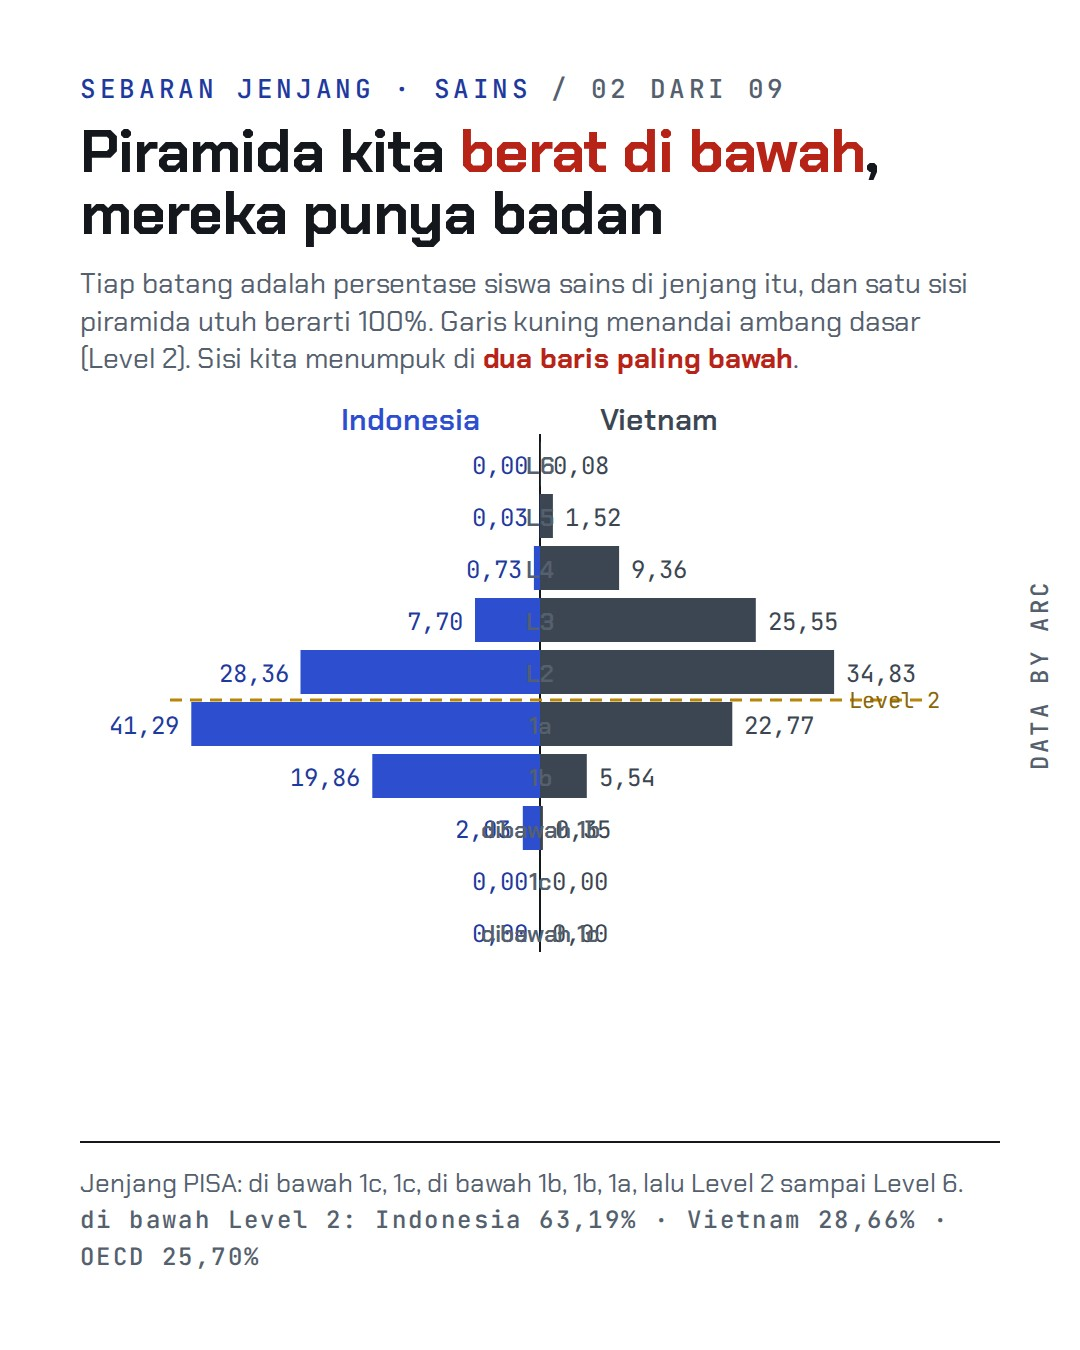
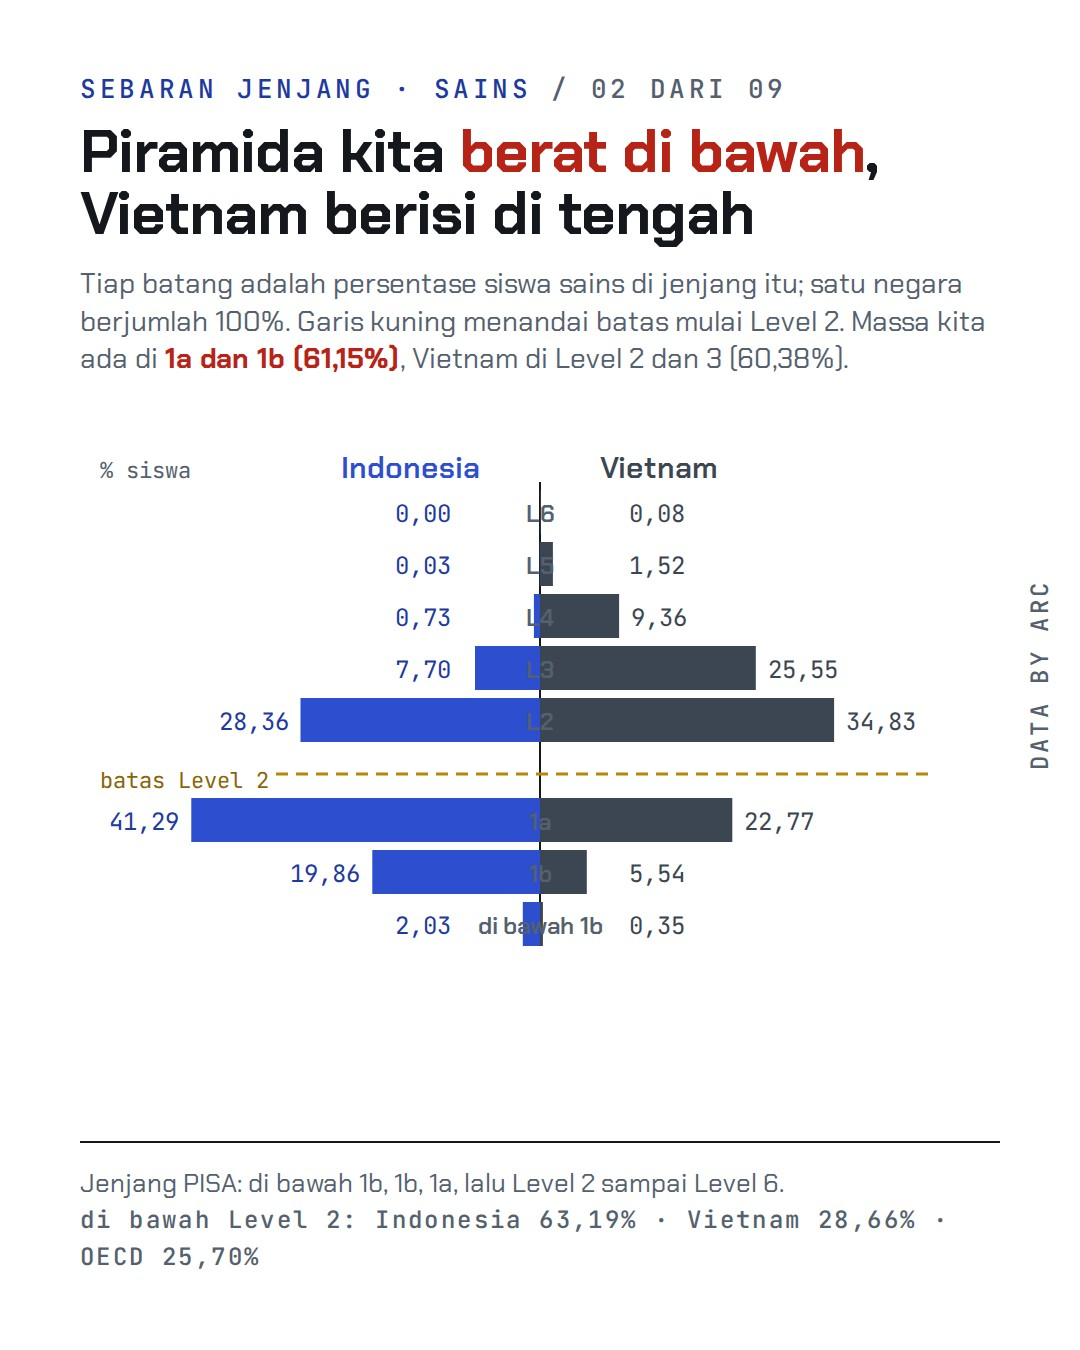
Rombak slide 2 & 6: buang dua baris 0,00 palsu, pisahkan legenda & ambang dari batang, label angka tidak lagi menempel

diff --git a/index.html b/index.html
@@ -63,7 +63,7 @@ Angkanya kami hitung ulang dari 755.721 baris data siswa (14.168 siswa Indonesia
   <p class="lede">Seri kedua: bentuk sebaran jenjang, ekor atas, selisih dengan Vietnam, dan peringkat.</p>
   <ul>
       <li><a href="pisa-piramida/slide1.jpg"><img src="pisa-piramida/slide1.jpg" alt="Slide 1: Dua piramida, dua arah" width="1080" height="1350" loading="lazy"></a><p class="cap">Slide 1: Dua piramida, dua arah</p></li>
-      <li><a href="pisa-piramida/slide2.jpg"><img src="pisa-piramida/slide2.jpg" alt="Slide 2: Piramida kita berat di bawah , mereka punya badan" width="1080" height="1350" loading="lazy"></a><p class="cap">Slide 2: Piramida kita berat di bawah , mereka punya badan</p></li>
+      <li><a href="pisa-piramida/slide2.jpg"><img src="pisa-piramida/slide2.jpg" alt="Slide 2: Piramida kita berat di bawah , Vietnam berisi di tengah" width="1080" height="1350" loading="lazy"></a><p class="cap">Slide 2: Piramida kita berat di bawah , Vietnam berisi di tengah</p></li>
       <li><a href="pisa-piramida/slide3.jpg"><img src="pisa-piramida/slide3.jpg" alt="Slide 3: 61,15% siswa kita ada di dua jenjang terbawah" width="1080" height="1350" loading="lazy"></a><p class="cap">Slide 3: 61,15% siswa kita ada di dua jenjang terbawah</p></li>
       <li><a href="pisa-piramida/slide4.jpg"><img src="pisa-piramida/slide4.jpg" alt="Slide 4: Dari 10.000 siswa, 3 orang kita ada di level tertinggi" width="1080" height="1350" loading="lazy"></a><p class="cap">Slide 4: Dari 10.000 siswa, 3 orang kita ada di level tertinggi</p></li>
       <li><a href="pisa-piramida/slide5.jpg"><img src="pisa-piramida/slide5.jpg" alt="Slide 5: Bentuk yang sama di tiga pelajaran" width="1080" height="1350" loading="lazy"></a><p class="cap">Slide 5: Bentuk yang sama di tiga pelajaran</p></li>
@@ -94,7 +94,7 @@ Menurut kamu, yang paling menentukan: kualitas guru, kurikulum, atau hal di luar
   <p class="lede">Versi Inggris dari seri kedua, angka sama, teks Inggris.</p>
   <ul>
       <li><a href="pisa-piramida-en/slide1.jpg"><img src="pisa-piramida-en/slide1.jpg" alt="Slide 1: Two pyramids, two directions" width="1080" height="1350" loading="lazy"></a><p class="cap">Slide 1: Two pyramids, two directions</p></li>
-      <li><a href="pisa-piramida-en/slide2.jpg"><img src="pisa-piramida-en/slide2.jpg" alt="Slide 2: Our pyramid is heavy at the bottom , theirs has a middle" width="1080" height="1350" loading="lazy"></a><p class="cap">Slide 2: Our pyramid is heavy at the bottom , theirs has a middle</p></li>
+      <li><a href="pisa-piramida-en/slide2.jpg"><img src="pisa-piramida-en/slide2.jpg" alt="Slide 2: Our pyramid is bottom-heavy , Vietnam&#x27;s bulges in the middle" width="1080" height="1350" loading="lazy"></a><p class="cap">Slide 2: Our pyramid is bottom-heavy , Vietnam&#x27;s bulges in the middle</p></li>
       <li><a href="pisa-piramida-en/slide3.jpg"><img src="pisa-piramida-en/slide3.jpg" alt="Slide 3: 61.15% of our students sit in the two lowest levels" width="1080" height="1350" loading="lazy"></a><p class="cap">Slide 3: 61.15% of our students sit in the two lowest levels</p></li>
       <li><a href="pisa-piramida-en/slide4.jpg"><img src="pisa-piramida-en/slide4.jpg" alt="Slide 4: Out of 10,000 students, 3 of ours reach the top levels" width="1080" height="1350" loading="lazy"></a><p class="cap">Slide 4: Out of 10,000 students, 3 of ours reach the top levels</p></li>
       <li><a href="pisa-piramida-en/slide5.jpg"><img src="pisa-piramida-en/slide5.jpg" alt="Slide 5: The same shape in all three subjects" width="1080" height="1350" loading="lazy"></a><p class="cap">Slide 5: The same shape in all three subjects</p></li>
